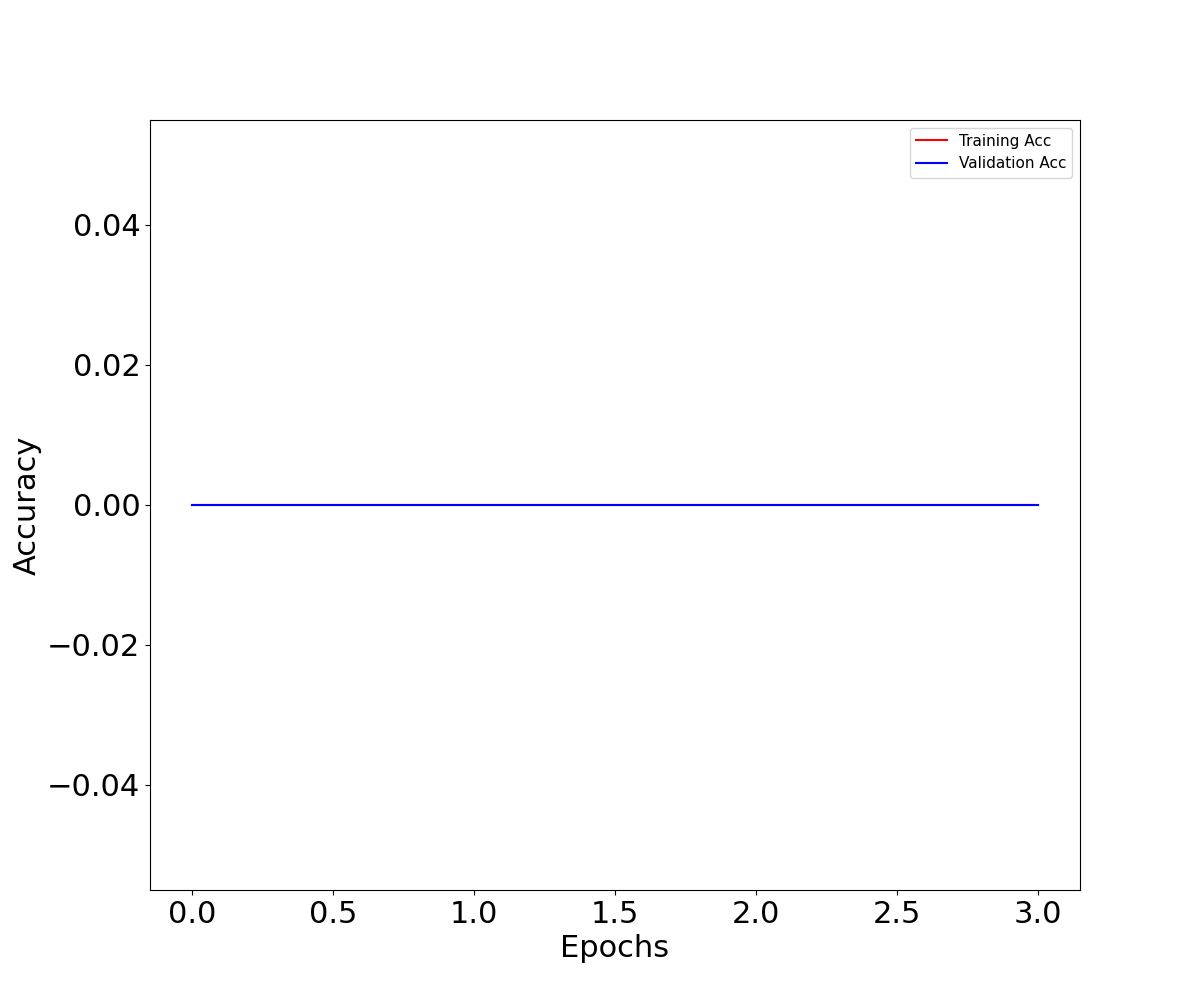
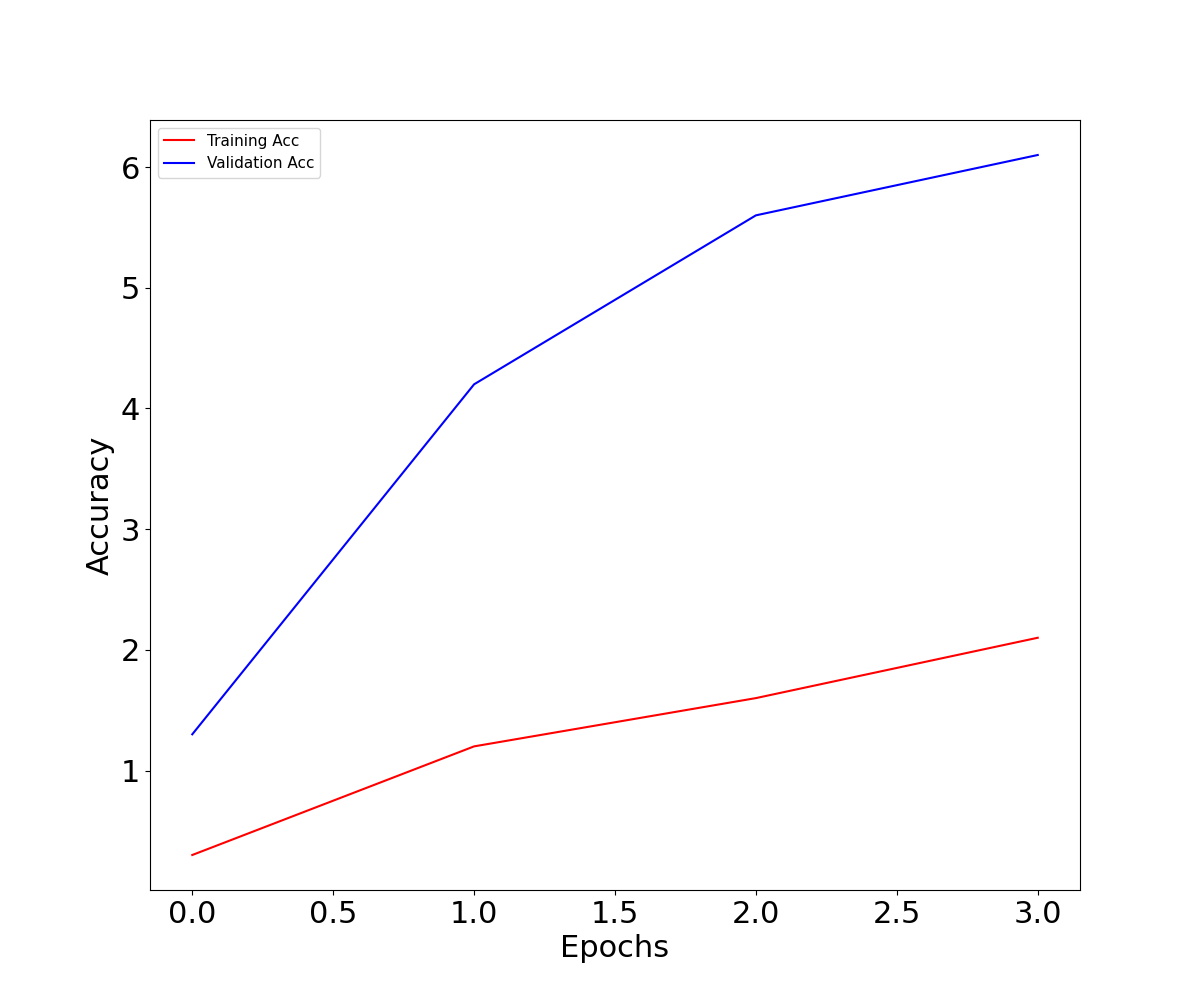
FIX accuracy calculation

diff --git a/lab3/utils/plotting.py b/lab3/utils/plotting.py
@@ -7,7 +7,7 @@ def plot_training_curves(tr_loss, tr_acc, val_loss, val_acc):
     epochs = range(len(tr_loss))
 
     #Plotting Loss figures.
-    fig = plt.figure(figsize=(12,10)) #figure size h,w in inches
+    plt.figure(figsize=(12,10)) #figure size h,w in inches
     plt.rcParams.update({'font.size': 22}) #configuring font size.
     plt.plot(epochs,tr_loss,c="red",label="Training Loss") #plotting
     plt.plot(epochs,val_loss,c="blue",label="Validation Loss")
@@ -17,10 +17,17 @@ def plot_training_curves(tr_loss, tr_acc, val_loss, val_acc):
     plt.savefig('diagrams/loss.png')
 
     #Plotting Accuracy figures.
-    fig = plt.figure(figsize=(12,10)) #figure size h,w in inches
+    plt.figure(figsize=(12,10)) #figure size h,w in inches
     plt.plot(epochs,tr_acc,c="red",label="Training Acc") #plotting
     plt.plot(epochs,val_acc,c="blue",label="Validation Acc")
     plt.xlabel("Epochs")   #title for x axis
     plt.ylabel("Accuracy") #title for y axis
     plt.legend(fontsize=11)
     plt.savefig('diagrams/accuracy.png')
+
+# if __name__ == "__main__":
+#     a = [1,2,3,4]
+#     b = [0.3,1.2,1.6,2.1]
+#     c = [1,2,3,4]
+#     d = [1.3,4.2,5.6,6.1]
+#     plot_training_curves(a,c,b,c,d)

diff --git a/lab3/training.py b/lab3/training.py
@@ -78,7 +78,7 @@ def eval_dataset(dataloader, model, loss_function):
     # disable regularization layers, such as Dropout
     model.eval()
     running_loss = 0.0
-    running_acc = 0.0
+    num_of_corrects = 0.0
     running_f1 = 0.0
     running_recall = 0.0
 
@@ -116,9 +116,9 @@ def eval_dataset(dataloader, model, loss_function):
             y.append(labels)
 
             # compute batch accuracy
-            running_acc += torch.sum(pred == labels)/len(batch)
+            num_of_corrects += torch.sum(class_pred == torch.argmax(labels,dim=1))
             running_loss += loss.data.item()
             running_f1 += f1_score(torch.argmax(labels,dim=1),class_pred)
             running_recall += recall_score(torch.argmax(labels,dim=1),class_pred)
 
-    return running_loss / index, (y_pred, y), running_acc / index, running_f1 / index , running_recall / index
+    return running_loss / index, (y_pred, y), num_of_corrects / (index*len(batch)), running_f1 / index , running_recall / index

diff --git a/lab3/main.py b/lab3/main.py
@@ -30,11 +30,11 @@ warnings.filterwarnings("ignore", category=UndefinedMetricWarning)
 EMBEDDINGS = os.path.join(EMB_PATH, "glove.6B.50d.txt")
 
 # 2 - set the correct dimensionality of the embeddings
-EMB_DIM = 10
+EMB_DIM = 50
 
 EMB_TRAINABLE = True
 BATCH_SIZE = 128
-EPOCHS = 50
+EPOCHS = 4
 DATASET = "MR"  # options: "MR", "Semeval2017A"
 
 # if your computer has a CUDA compatible gpu use it, otherwise use the cpu
@@ -144,7 +144,7 @@ for epoch in range(1, EPOCHS + 1):
     print("F1 score for test set is",f1_test)
     print("Recall for training set is",recall_train)
     print("Recall for test set is",recall_test)
-
+    
     tr_loss.append(train_loss)
     val_loss.append(test_loss)
     tr_acc.append(accuracy_train)
